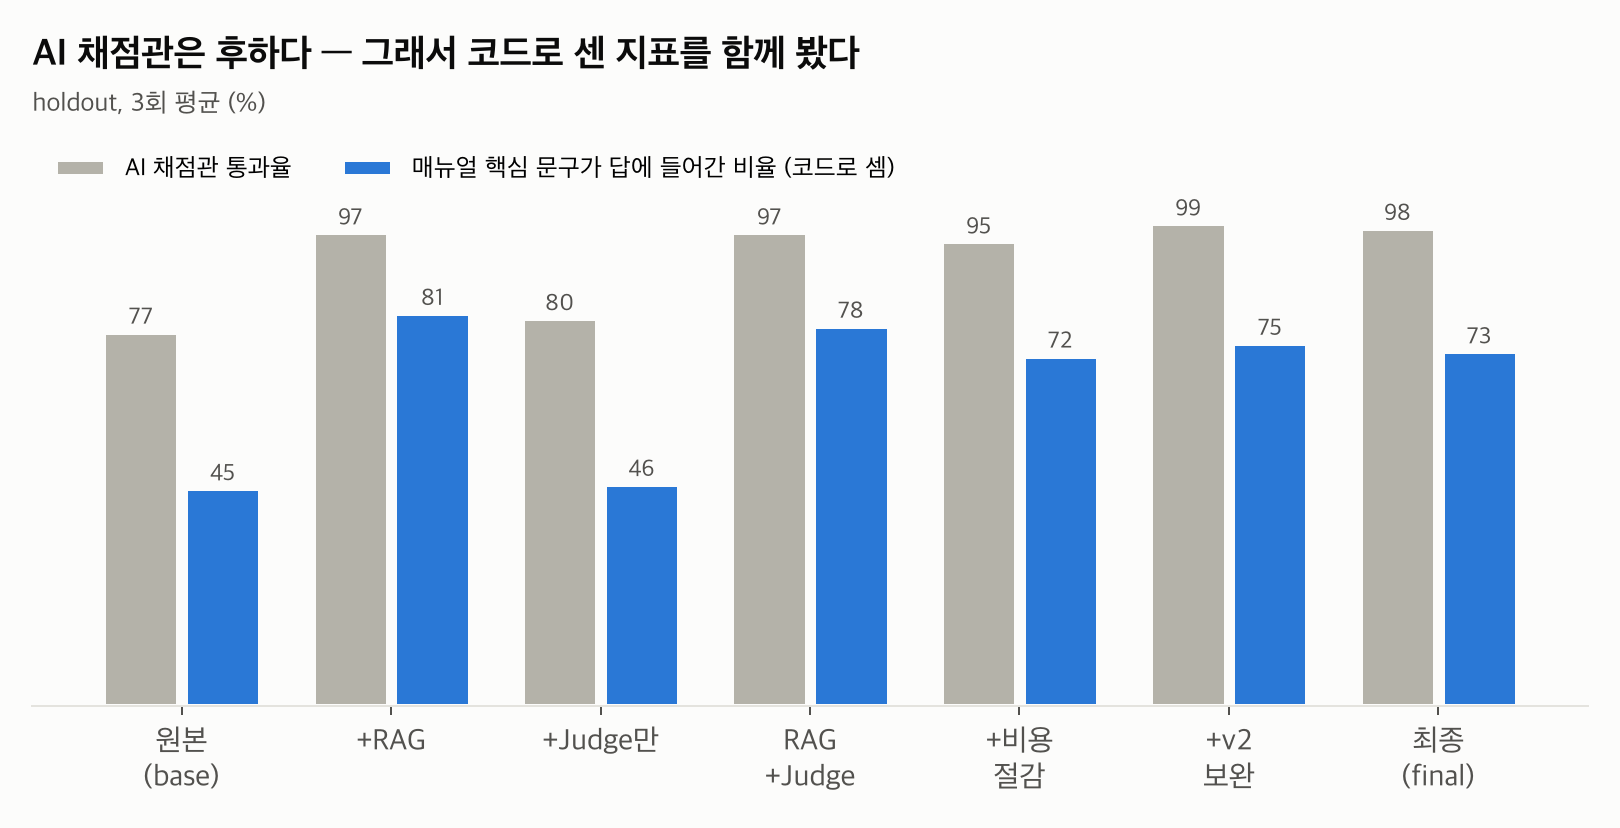
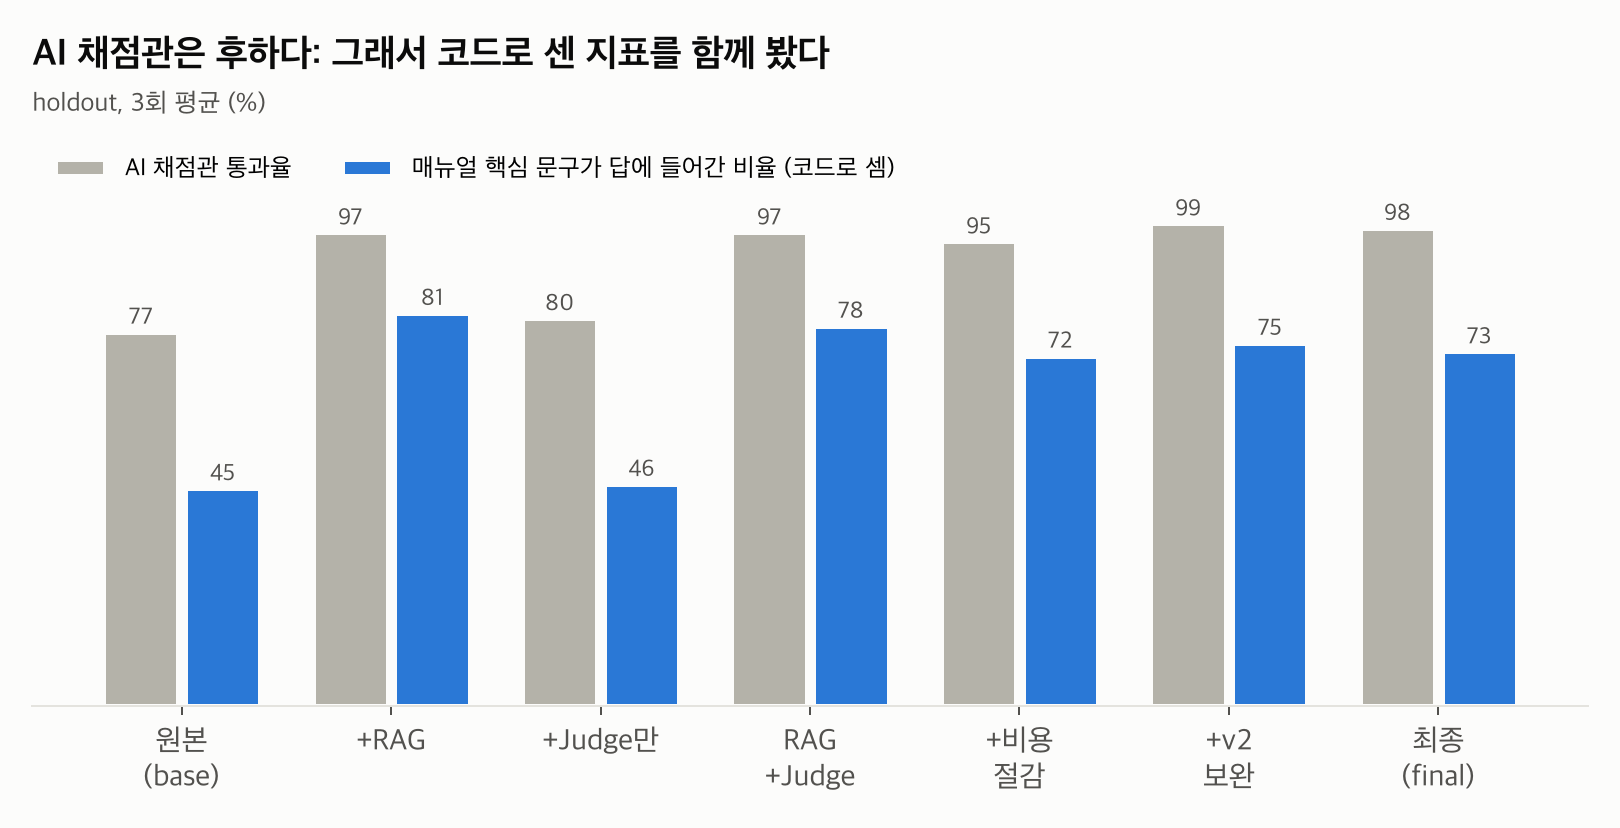
docs: 기여도 그림 가독성 개선(패널 제목·좋아짐 영역·변화 없음 표기), 그림 제목 긴 대시 제거
fig6: 패널 제목(① 누락 / ② 혼입), 0 기준 좋아짐·나빠짐 음영, 0%p이고 구간이 0에 닿으면 '변화 없음',
효과 확인은 굵은 색 글씨, 미확인은 빈 점. 수치는 stats_holdout.json 그대로(반올림 규칙 동일).
fig3·4·5·9: 제목의 긴 대시를 콜론으로만 교체(제목 영역 외 픽셀 차이 없음 확인).
테스트: make_figs 재생성, 900px 축소본 확인, check_claims 0건

Changed region(s): [[0.1852, 0.0302, 0.5247, 0.0906]]

diff --git a/scripts/make_figs.py b/scripts/make_figs.py
@@ -111,46 +111,62 @@ fig.savefig(OUT / "fig2_bias.png", dpi=180)
 plt.close(fig)
 
 # 3. 정답 런북 누락 / 4. 무관 런북 혼입
-bars("fig3_miss.png", "맞는 매뉴얼을 놓치는 비율 — RAG가 크게 줄였다",
+bars("fig3_miss.png", "맞는 매뉴얼을 놓치는 비율: RAG가 크게 줄였다",
      "정답 런북을 근거에 못 넣은 비율 (낮을수록 좋음) · holdout, 3회 평균",
      [X[n]["miss_runbook_rate"] for n in ORDER], lambda v: f"{round(v * 100)}%",
      color_by({"rag", "rag_judge", "rag_judge_cost", "rag_judge_v2", "final"}), (0, 0.7))
-bars("fig4_wrong.png", "엉뚱한 매뉴얼이 섞이는 비율 — v2 보완이 줄였다",
+bars("fig4_wrong.png", "엉뚱한 매뉴얼이 섞이는 비율: v2 보완이 줄였다",
      "질문과 무관한 런북이 근거에 섞인 비율 (낮을수록 좋음) · holdout, 3회 평균",
      [X[n]["wrong_runbook_rate"] for n in ORDER], lambda v: f"{round(v * 100)}%",
      color_by({"rag_judge_v2", "final"}), (0, 0.8))
 
 # 5. 비용
-bars("fig5_cost.png", "장애 1건 처리 비용 — 최종 구성이 가장 싸다",
+bars("fig5_cost.png", "장애 1건 처리 비용: 최종 구성이 가장 싸다",
      "OpenAI 공개 단가 x 실측 토큰 (USD, 추정) · holdout, 3회 평균",
      [X[n]["cost_per_incident"] for n in ORDER], lambda v: f"${v:.4f}",
      color_by({"rag_judge_cost", "final"}), None)
 
 # 6. 기여도 — 같은 질문끼리 비교한 차이와 95% 신뢰구간 (정답 누락 · 엉뚱한 매뉴얼 혼입)
 st = json.loads((R / "stats_holdout.json").read_text())["pairs"]
-fig, axes = plt.subplots(1, 2, figsize=(12, 4.8), sharey=True)
+fig, axes = plt.subplots(1, 2, figsize=(12, 5.6), sharey=True)
 ys = list(range(len(st)))[::-1]
-for ax, key, xlabel in ((axes[0], "miss", "맞는 매뉴얼 누락 변화 (%p)"), (axes[1], "wrong", "엉뚱한 매뉴얼 혼입 변화 (%p)")):
+lo_all = min(min(p[k]["lo"] for p in st) for k in ("miss", "wrong")) * 100
+hi_all = max(max(p[k]["hi"] for p in st) for k in ("miss", "wrong")) * 100
+XL = (min(lo_all, 0) - 8, max(hi_all, 0) + 28)   # 두 패널 같은 눈금, 오른쪽은 글자 자리
+for ax, key, ptitle in ((axes[0], "miss", "① 맞는 매뉴얼 누락"), (axes[1], "wrong", "② 엉뚱한 매뉴얼 혼입")):
+    ax.axvspan(XL[0], 0, color=BLUE, alpha=0.06, lw=0)
+    ax.axvspan(0, XL[1], color=ORANGE, alpha=0.06, lw=0)
+    ax.text(XL[0] + 1.5, len(st) - 0.35, "← 좋아짐", fontsize=11, color=BLUE, fontweight="bold", va="center")
+    ax.text(XL[1] - 1.5, len(st) - 0.35, "나빠짐 →", fontsize=11, color=ORANGE, fontweight="bold", va="center", ha="right")
     for y, p in zip(ys, st):
         r = p[key]
+        d = round(r["diff"] * 100)
         c = BLUE if r["significant"] and r["diff"] < 0 else (ORANGE if r["significant"] else GRAY)
-        ax.plot([r["lo"] * 100, r["hi"] * 100], [y, y], color=c, lw=3, solid_capstyle="round")
-        ax.plot(r["diff"] * 100, y, "o", color=c, ms=9, mec=SURF, mew=2)
-        ax.text(max(r["hi"] * 100, 0) + 3, y, f"{round(r['diff'] * 100):+d}%p" + (" 효과 확인" if r["significant"] else ""),
-                va="center", fontsize=10, color=INK if r["significant"] else INK2)
-    ax.axvline(0, color=INK2, lw=1)
-    ax.set_xlim(-80, 45)
-    ax.set_xlabel(xlabel + " · 왼쪽일수록 좋아짐")
+        ax.plot([r["lo"] * 100, r["hi"] * 100], [y, y], color=c, lw=4 if r["significant"] else 3, solid_capstyle="round")
+        ax.plot(r["diff"] * 100, y, "o", color=c if r["significant"] else SURF, ms=10, mec=c if not r["significant"] else SURF,
+                mew=2)
+        if r["significant"]:
+            lab, kw = f"{d:+d}%p 효과 확인", dict(color=c, fontweight="bold", fontsize=12)
+        elif d == 0 and r["lo"] <= 0 <= r["hi"]:
+            lab, kw = "변화 없음", dict(color=INK2, fontsize=11)
+        else:
+            lab, kw = f"{d:+d}%p (불확실)", dict(color=INK2, fontsize=11)
+        ax.text(max(r["hi"] * 100, 0) + 3, y, lab, va="center", **kw)
+    ax.axvline(0, color=INK2, lw=1.2)
+    ax.set_xlim(*XL)
+    ax.set_ylim(-0.6, len(st) - 0.1)
+    ax.set_title(ptitle, loc="left", fontsize=14, color=INK, fontweight="bold", pad=10)
+    ax.set_xlabel("변화 (%p) · 왼쪽일수록 좋아짐", fontsize=11.5)
     for sp in ("top", "right", "left"):
         ax.spines[sp].set_visible(False)
-    ax.tick_params(left=False)
+    ax.tick_params(left=False, labelsize=11)
     ax.xaxis.grid(True, color=GRID, lw=0.8)
     ax.set_axisbelow(True)
-axes[0].set_yticks(ys, [p["label"] for p in st])
-fig.suptitle("어떤 개선이 효과였나 — 같은 질문끼리 짝지어 비교", x=0.01, ha="left", fontsize=15, color=INK, fontweight="bold")
-fig.text(0.01, 0.905, "점 = 평균 변화, 선 = 95% 신뢰구간. 선이 0을 지나지 않으면 '효과 확인' (holdout 36건, 3회 평균)",
-         fontsize=10.5, color=INK2)
-fig.tight_layout(rect=(0, 0, 1, 0.88))
+axes[0].set_yticks(ys, [p["label"] for p in st], fontsize=13, color=INK)
+fig.suptitle("어떤 개선이 효과였나: 같은 질문끼리 짝지어 비교", x=0.01, ha="left", fontsize=16, color=INK, fontweight="bold")
+fig.text(0.01, 0.905, "점 = 평균 변화, 막대 = 95% 신뢰구간(진짜 효과가 있을 법한 범위). "
+         "막대가 0선에 닿지 않으면 '효과 확인'. holdout 36문제 × 3회", fontsize=11, color=INK2)
+fig.tight_layout(rect=(0, 0, 1, 0.9))
 fig.savefig(OUT / "fig6_contrib.png", dpi=180)
 plt.close(fig)
 
@@ -202,7 +218,7 @@ ax.set_xticks(range(len(ORDER)), [LABEL[n] for n in ORDER])
 ax.set_yticks([])
 ax.set_ylim(0, 1.18)
 ax.legend(frameon=False, loc="upper left", fontsize=10, ncol=2)
-frame(ax, "AI 채점관은 후하다 — 그래서 코드로 센 지표를 함께 봤다", "holdout, 3회 평균 (%)")
+frame(ax, "AI 채점관은 후하다: 그래서 코드로 센 지표를 함께 봤다", "holdout, 3회 평균 (%)")
 fig.tight_layout()
 fig.savefig(OUT / "fig9_judge.png", dpi=180)
 plt.close(fig)
